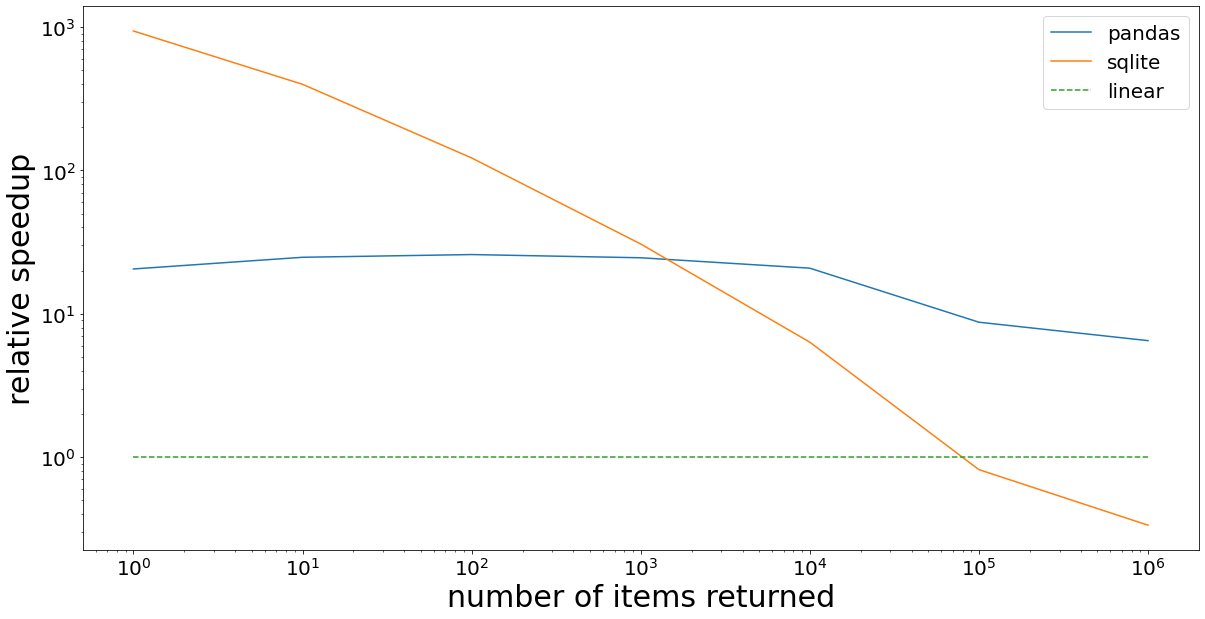
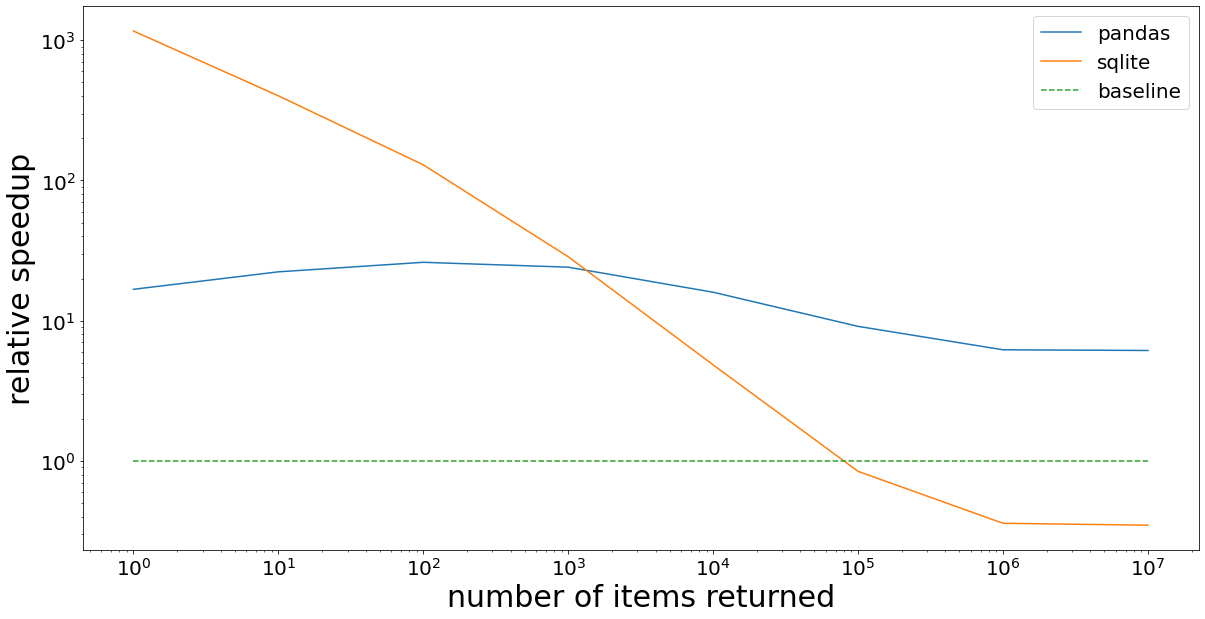
add badge (#5)
* improve readme

* add tests badge

diff --git a/rangeindex/idx_sqlite.py b/rangeindex/idx_sqlite.py
@@ -11,17 +11,17 @@ PYTYPE_TO_SQLITE = {float: "NUMBER", int: "NUMBER", str: "TEXT"}
 
 
 class SqliteIndex:
-    def __init__(self, on: Dict[str, type], indices: List[Tuple[str]] = None):
+    def __init__(self, on: Dict[str, type], table_index: List[Tuple[str]] = None):
         self.objs = dict()  # maps {id(object): object}
         self.table_name = "ri_" + str(get_next_table_id())
         self.conn = sqlite3.connect(":memory:")
         self.fields = on
 
-        self.indices = indices
-        if self.indices is None:
+        self.table_index = table_index
+        if self.table_index is None:
             # By default, create a single-column index on each field.
             # If you really want no indices whatsoever, specify indices=[].
-            self.indices = [(f,) for f in self.fields]
+            self.table_index = [(f,) for f in self.fields]
 
         # create sqlite table
         tbl = [f"CREATE TABLE {self.table_name} ("]
@@ -37,7 +37,7 @@ class SqliteIndex:
 
     def _create_indices(self):
         cur = self.conn.cursor()
-        for index in self.indices:
+        for index in self.table_index:
             index_name = "_".join(index)
             index_cols = ",".join(index)
             idx_str = (

diff --git a/readme.py b/readme.py
@@ -1,0 +1,31 @@
+import random
+import time
+from rangeindex import RangeIndex
+
+class CatPhoto:
+    def __init__(self):
+        self.width = random.choice(range(200, 2000))
+        self.height = random.choice(range(200, 2000))
+        self.brightness = random.random()*10
+        self.name = random.choice(['Luna', 'Willow', 'Elvis', 'Nacho', 'Tiger'])
+        self.image_data = 'Y2Ugbidlc3QgcGFzIHVuZSBjaGF0dGU='
+
+# Make a million
+photos = [CatPhoto() for _ in range(10**6)]
+
+# Build RangeIndex
+ri = RangeIndex(photos, 
+                on={'height': int, 'width': int, 'brightness': float, 'name': str}, 
+                engine='sqlite',
+                table_index=[('width', 'height', 'brightness')])
+                
+# Find matches
+import time
+t0 = time.time()
+matches = ri.find("height > 1900 and width >= 1900 and brightness >= 9 and name='Tiger'")
+t1 = time.time()
+match_generator = [p for p in photos if p.height > 1900 and p.width >= 1900 and p.brightness >= 9 and p.name == 'Tiger']
+t2 = time.time()
+print('gene time', t2-t1, len(match_generator))
+print('match_time', t1-t0, len(matches))
+

diff --git a/rangeindex/rangeindex.py b/rangeindex/rangeindex.py
@@ -1,6 +1,6 @@
 from typing import *
 
-from rangeindex.constants import *
+from rangeindex.constants import SQLITE, PANDAS
 from rangeindex.exceptions import *
 from rangeindex.idx_pandas import PandasIndex
 from rangeindex.idx_sqlite import SqliteIndex
@@ -10,11 +10,10 @@ class RangeIndex:
     def __init__(
         self,
         objs: Optional[List[Any]] = None,
-        on: Dict[str, Any] = None,
+        on: Optional[Dict[str, Any]] = None,
         engine: str = SQLITE,
         **kwargs,
     ):
-        self._validate_fields(on)
         self.engine = engine.lower()
         if self.engine == SQLITE:
             self.idx = SqliteIndex(on=on, **kwargs)

diff --git a/setup.py b/setup.py
@@ -1,0 +1,15 @@
+from setuptools import setup
+
+setup(
+    name="rangeindex",
+    version="0.3.0",
+    license="MIT",
+    author="Theo Walker",
+    packages=["rangeindex"],
+    long_description="",
+    long_description_content_type="text/markdown",
+    url="https://github.com/manimino/rangeindex",
+    keywords=["rangeindex", "objects", "index", "range index", "range"],
+    install_requires=["duckdb"],
+)
+

diff --git a/README.md b/README.md
@@ -1,74 +1,91 @@
 # RangeIndex
 
+[![tests Actions Status](https://github.com/manimino/rangeindex/workflows/tests/badge.svg)](https://github.com/manimino/rangeindex/actions)
+
 Data structure for finding Python objects by `<`, `<=`, `==`, `>=`, `>` on their attributes.
 
 `pip install rangeindex`
 
-Putting your objects in a RangeIndex will greatly accelerate lookup times. 
+### Usage
+```
+from rangeindex import RangeIndex
+ri = RangeIndex(list_of_objects, on={'size': int, 'brightness': float})
+matching_objects = ri.find('size >= 1000 and brightness > 0.5')
+```
 
-You can expect a speedup of 10x ~ 1000x, versus doing a linear scan in Python like
-`matches = [obj for obj in objects if obj.x > ...]`.
+You can `add()`, `add_many()`, `update()`, and `remove()` items from a RangeIndex.
+
+[Docs]()
+
+### How it works
+
+That RangeIndex object will contain a table with 3 columns:
+ - size
+ - brightness
+ - a Python object reference
+
+On `find()`, a query will run to find the matching objects.
 
 ### Example
 
-Make a million objects, filter them on size and shape. 
+You have a million cat photos. Find big, bright pictures of Tiger The Cat.
 
 ```
 import random
+import time
 from rangeindex import RangeIndex
 
-# Define an object
-class Object:
+class CatPhoto:
     def __init__(self):
-        self.size = random.random()
-        self.shape = random.choice(['square', 'circle'])
-        self.other_data = 'aXQncyBhIHNlY3JldCB0byBldmVyeWJvZHk='
+        self.width = random.choice(range(200, 2000))
+        self.height = random.choice(range(200, 2000))
+        self.brightness = random.random()*10
+        self.name = random.choice(['Luna', 'Willow', 'Elvis', 'Nacho', 'Tiger'])
+        self.image_data = 'Y2Ugbidlc3QgcGFzIHVuZSBjaGF0dGU='
 
-# Make a million of them
-objects = [Object() for _ in range(10**6)]
+# Make a million
+photos = [CatPhoto() for _ in range(10**6)]
 
-# Build an index on 'shape' and 'size' containing all objects
-ri = RangeIndex(objects, 
-                on={'size': float, 'shape': str}, 
-                engine='sqlite')
-
+# Build RangeIndex
+ri = RangeIndex(photos, 
+                on={'height': int, 'width': int, 'brightness': float, 'name': str}, 
+                engine='sqlite',
+                table_index=[('width', 'height', 'brightness')])
+                
 # Find matches
-matches = ri.find("size < 0.001 and shape == 'circle'")
+matches = ri.find("height > 1900 and width >= 1900 and brightness >= 9 and name='Tiger'")
 ```
 
-### Usage
+In this case, RangeIndex `find()` is more than 10x faster than the equivalent Python expression:
 
-You can `add()`, `add_many()`, `update()`, and `remove()` items.
+`matches = [p for p in photos if p.height >= 1900 and p.width >= 1900 and p.brightness >= 9 and p.name='Tiger']`
 
-[See docs for more details.](https://pypi.org/project/rangeindex/)
-
-### Engines
+### Engine Comparison
 
 RangeIndex has two engines available, `sqlite` and `pandas`. The default is `sqlite`.
 
-#### SQLite
+If your queries typically return just a few results, use `engine=sqlite`. But if you're doing full table 
+scans often, `engine=pandas` will be faster. 
 
-SQLite uses a B-tree index that dramatically speeds up small queries, as well as `update` and `remove` operations.
-However, it slows down to near linear speed or worse with large queries. 
+#### Data
 
-#### Pandas
+|                | Baseline | Sqlite | Pandas |
+|----------------|----------|--------|--------|
+| Get 1 item     | 1.14s    | 0.9ms  | 41.7ms |
+| Get 10 items   | 1.10s    | 2.7ms  | 42.4ms |
+| Get 100 items  | 1.09s    | 9.6ms  | 42.5ms |
+| Get 1K items   | 1.20s    | 46.8ms | 48.9ms |
+| Get 10K items  | 1.30s    | 0.28s  | 83.6ms |
+| Get 100K items | 1.83s    | 2.16s  | 0.198s |
+| Get 1M items   | 2.61s    | 7.95s  | 0.431s |
+| Get 10M items  | 2.64s    | 8.11s  | 0.45s  |
 
-Pandas does not use an index data structure; its performance gains over Python are due to its internal use of numpy 
-arrays, which allow vectorized operations. It uses a small amount of RAM. Its `update` and `remove` operations are 
-slower than SQLite.
+This is a benchmark on random-range queries against a dataset of 10 million (10^7) objects indexed on two numeric 
+fields. `Baseline` is a Python list comprehension.
 
-### Performance
+#### Graph
 
 ![Benchmark: sqlite does well on small queries, other engines do better on large queries.](perf/benchmark.png)
 
-This is a benchmark on random-range queries against a dataset of 1 million (10^6) objects indexed on two `float` 
-fields.
-
-The dashed line `linear` is a Python generator expression. `sqlite` and `pandas` are compared to that line.
-
+This is the same data in graph form, showing relative speedup. Each line is divided by `baseline`. 
 Note that both axis labels are powers of 10; `10^3` on the Y-axis indicates a 1000X speedup.
-
-SQLite here offers a 15X ~ 1000X speedup when matching 1000 or fewer items, but it is about 3X slower than `linear` when 
-matching all objects. 
-
-Pandas is 5X ~ 20X faster than `linear`.
